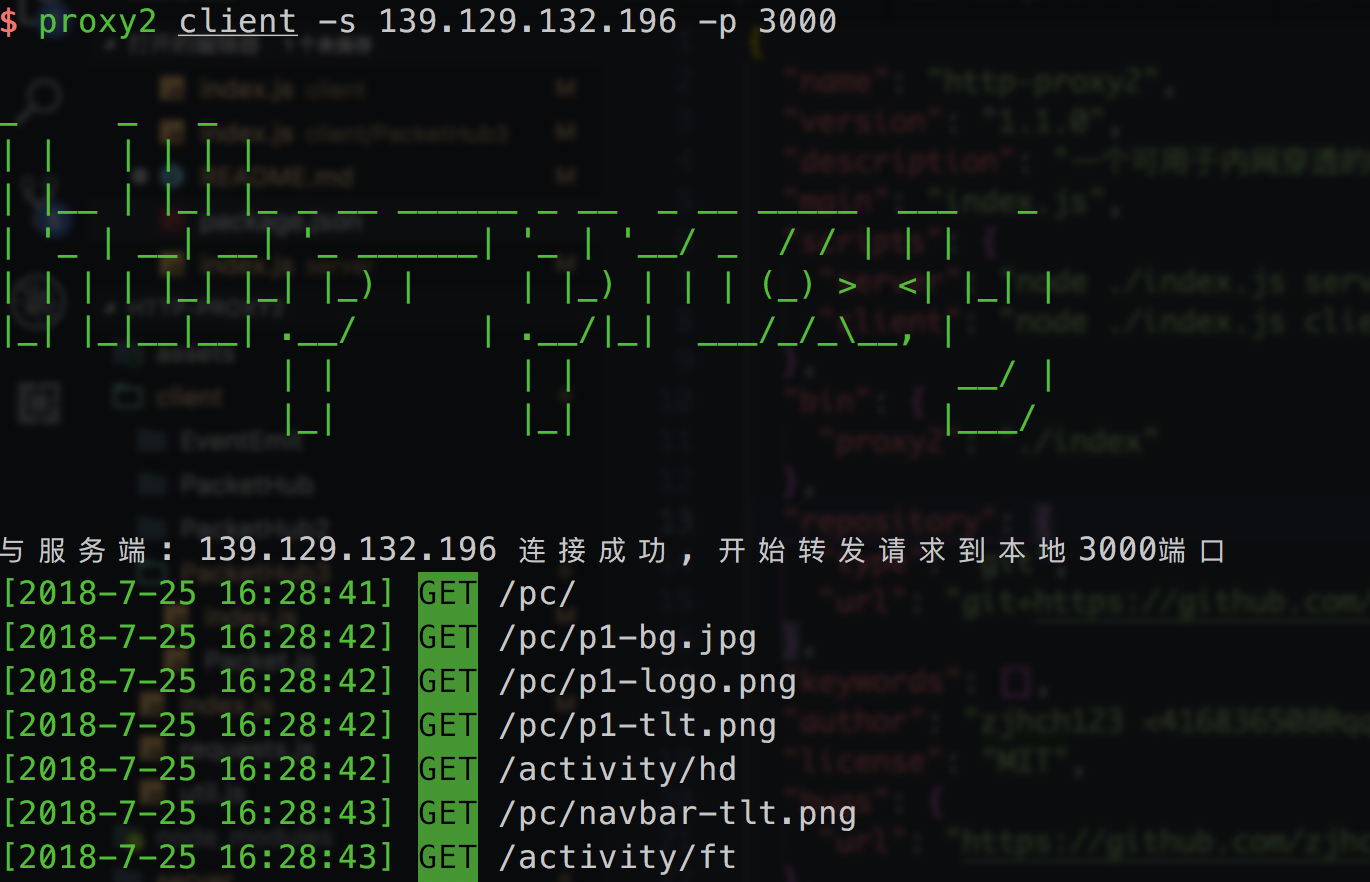
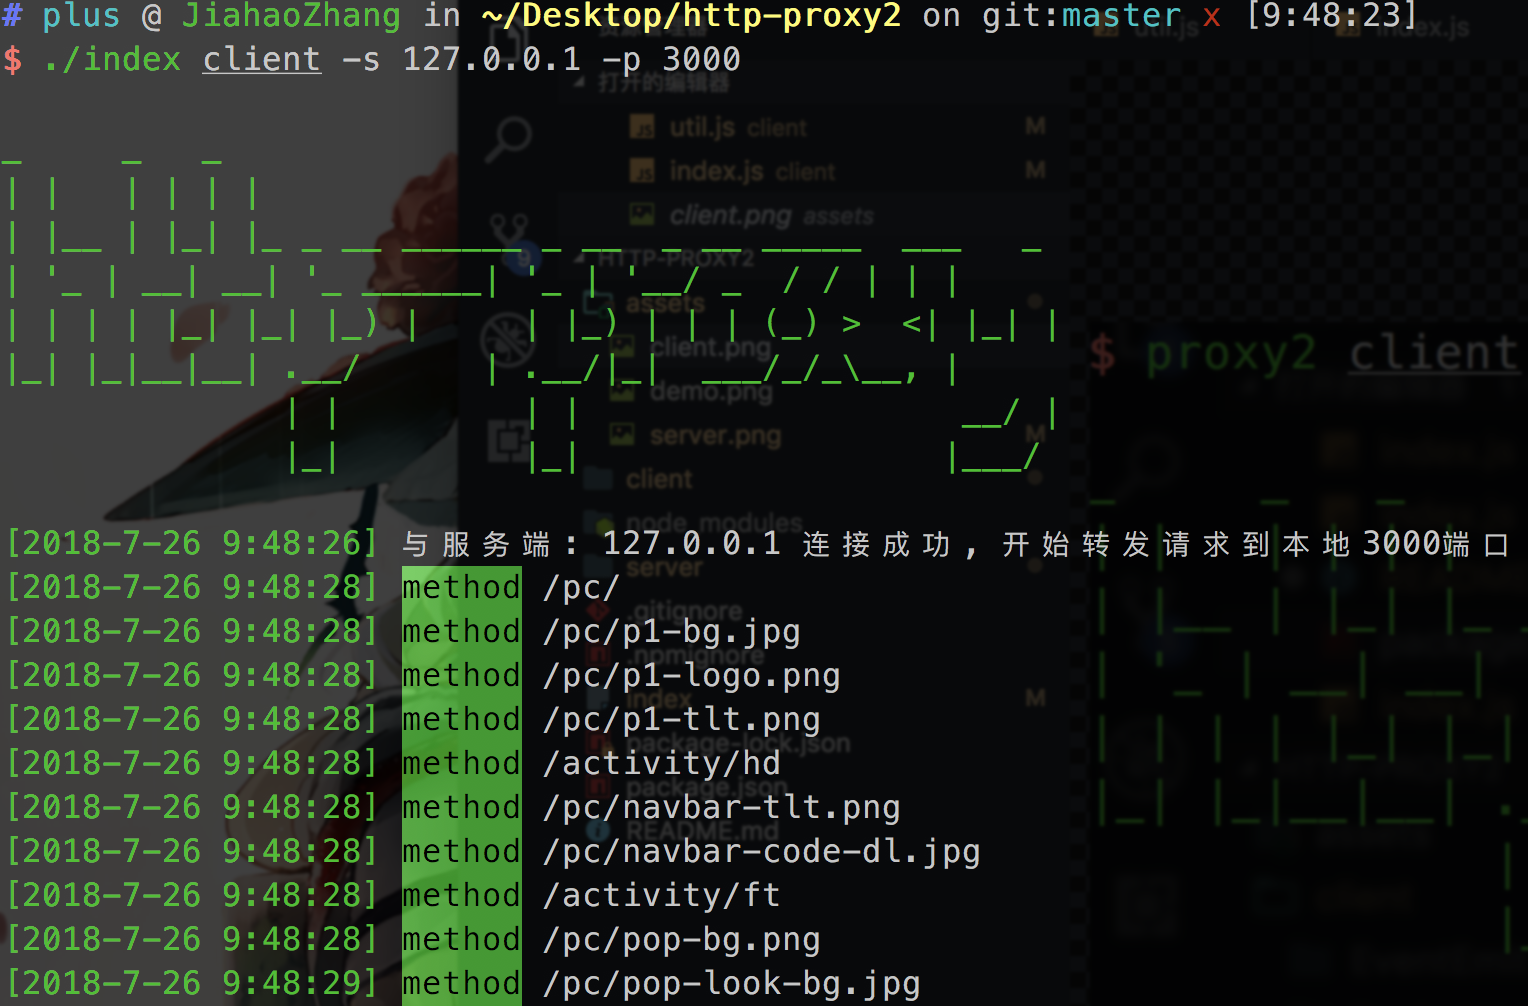
feat: 优化控制台输出方案

diff --git a/server/index.js b/server/index.js
@@ -1,8 +1,11 @@
 const net = require('net')
+const http = require('http')
+const colors = require('./colors')
 const Emit = require('./EventEmit')
 const PacketHub = require('./PacketHub3')
 const util = require('./util')
-const http = require('http')
+
+const log = util.log
 
 const startServer = (port = 8081) => {
   const packetHub = new PacketHub()
@@ -13,7 +16,7 @@ const startServer = (port = 8081) => {
 
   const createConnectionToTunnel = () => {
     tunnel = net.createServer(socket => {
-      console.log('客户机连接成功！')
+      log(`客户机连接成功!`)
       packetHub.start()
       tunnelSocket = socket
       socket.on('data', (data) => { // 接收到内网主机发来的消息, 内网主机发来的消息是已经包裹完毕的
@@ -24,9 +27,9 @@ const startServer = (port = 8081) => {
         tunnel = null
         tunnelSocket = null
         packetHub.clear()
-        console.log('客户机断开，3秒后重新开始监听客户机连接')
+        log('客户机断开，3秒后重新开始监听客户机连接')
         setTimeout(() => {
-          console.log('重新开始监听')
+          log('重新开始监听')
           createConnectionToTunnel()
         }, 3000)
       })
@@ -70,10 +73,9 @@ const startServer = (port = 8081) => {
     }
   })
 
-  console.log(`开始监听${port}端口`)
+  log(`开始监听${port}端口`)
   server.setMaxListeners(5)
   server.listen(port)
-
 
   Emit.on('recvReq', ({
     key,
@@ -93,7 +95,7 @@ const startServer = (port = 8081) => {
     const buf = Buffer.from(header)
     const packet = util.createWrappedBuf(key, buf)
     if (tunnelSocket) {
-      console.log(`[${util.getNowDate()}] Proxy: ${method} - ${path}`)
+      log(`${colors.bgRed(colors.white('Proxy'))} ${colors.bgGreen(colors.black('method'))} ${path}`)
       tunnelSocket.write(packet)
     } else {
       serverResponses[key].end('There is no client, please connect client to proxy request!')
@@ -113,7 +115,7 @@ const startServer = (port = 8081) => {
         serverResponses[key].end(body)
       } catch (e) {
         serverResponses[key].end()
-        console.log(e)
+        log(e)
       }
       delete serverResponses[key]
     }

diff --git a/client/index.js b/client/index.js
@@ -3,6 +3,9 @@ const PacketHub = require('./PacketHub3')
 const util = require('./util')
 const requests = require('./requests')
 const Emit = require('./EventEmit')
+const colors = require('./colors')
+
+const log = util.log
 
 const startClient = (publicIP = '127.0.0.1', proxyToPort = 80) => {
   const packetHub = new PacketHub()
@@ -14,7 +17,7 @@ const startClient = (publicIP = '127.0.0.1', proxyToPort = 80) => {
 
   client.connect(PORT, HOST, () => {
     packetHub.start()
-    console.log(`与服务端: ${publicIP} 连接成功, 开始转发请求到本地${proxyToPort}端口`)
+    log(`与服务端: ${publicIP} 连接成功, 开始转发请求到本地${proxyToPort}端口`)
   })
 
   client.on('data', (data) => {
@@ -22,7 +25,7 @@ const startClient = (publicIP = '127.0.0.1', proxyToPort = 80) => {
   })
 
   client.on('close', () => {
-    console.log('与服务端的连接被中断!')
+    log('与服务端的连接被中断!')
     packetHub.clear()
   })
 
@@ -33,7 +36,7 @@ const startClient = (publicIP = '127.0.0.1', proxyToPort = 80) => {
       headers,
       body
     } = util.splitRequest(fullPacket)
-    console.log(`\x1b[32m[${util.getNowDate()}]\x1b[0m \x1b[42m\x1b[30m${method}\x1b[0m ${path}`)
+    log(`${colors.bgGreen(colors.black('method'))} ${path}`)
     const result = await requests({
       host: '127.0.0.1',
       port: proxyToPort,

diff --git a/client/colors.js b/client/colors.js
@@ -1,0 +1,34 @@
+const Reset = "\x1b[0m",
+      Bright = "\x1b[1m",
+      Dim = "\x1b[2m",
+      Underscore = "\x1b[4m",
+      Blink = "\x1b[5m",
+      Reverse = "\x1b[7m",
+      Hidden = "\x1b[8m",
+
+      FgBlack = "\x1b[30m",
+      FgRed = "\x1b[31m",
+      FgGreen = "\x1b[32m",
+      FgYellow = "\x1b[33m",
+      FgBlue = "\x1b[34m",
+      FgMagenta = "\x1b[35m",
+      FgCyan = "\x1b[36m",
+      FgWhite = "\x1b[37m",
+
+      BgBlack = "\x1b[40m",
+      BgRed = "\x1b[41m",
+      BgGreen = "\x1b[42m",
+      BgYellow = "\x1b[43m",
+      BgBlue = "\x1b[44m",
+      BgMagenta = "\x1b[45m",
+      BgCyan = "\x1b[46m",
+      BgWhite = "\x1b[47m"
+
+module.exports = {
+  red: (msg) => `${FgRed}${msg}${Reset}`,
+  green: (msg) => `${FgGreen}${msg}${Reset}`,
+  bgGreen: (msg) => `${BgGreen}${msg}${Reset}`,
+  bgRed: (msg) => `${BgRed}${msg}${Reset}`,
+  black: (msg) => `${FgBlack}${msg}${Reset}`,
+  white: (msg) => `${FgWhite}${msg}${Reset}`,
+}

diff --git a/server/colors.js b/server/colors.js
@@ -1,0 +1,34 @@
+const Reset = "\x1b[0m",
+      Bright = "\x1b[1m",
+      Dim = "\x1b[2m",
+      Underscore = "\x1b[4m",
+      Blink = "\x1b[5m",
+      Reverse = "\x1b[7m",
+      Hidden = "\x1b[8m",
+
+      FgBlack = "\x1b[30m",
+      FgRed = "\x1b[31m",
+      FgGreen = "\x1b[32m",
+      FgYellow = "\x1b[33m",
+      FgBlue = "\x1b[34m",
+      FgMagenta = "\x1b[35m",
+      FgCyan = "\x1b[36m",
+      FgWhite = "\x1b[37m",
+
+      BgBlack = "\x1b[40m",
+      BgRed = "\x1b[41m",
+      BgGreen = "\x1b[42m",
+      BgYellow = "\x1b[43m",
+      BgBlue = "\x1b[44m",
+      BgMagenta = "\x1b[45m",
+      BgCyan = "\x1b[46m",
+      BgWhite = "\x1b[47m"
+
+module.exports = {
+  red: (msg) => `${FgRed}${msg}${Reset}`,
+  green: (msg) => `${FgGreen}${msg}${Reset}`,
+  bgGreen: (msg) => `${BgGreen}${msg}${Reset}`,
+  bgRed: (msg) => `${BgRed}${msg}${Reset}`,
+  black: (msg) => `${FgBlack}${msg}${Reset}`,
+  white: (msg) => `${FgWhite}${msg}${Reset}`,
+}

diff --git a/client/util.js b/client/util.js
@@ -1,3 +1,5 @@
+const colors = require('./colors')
+
 const util = {
   createWrappedBuf: (key, buf) => {
     const length = buf.length
@@ -7,12 +9,14 @@ const util = {
     return Buffer.concat([_buf, buf], 16 + length)
   },
   generateKey: () => {
-    return util.randomNum(1000000, 10000000)
+    return util.randomNum(1e6, 1e7)
   },
   objToStr: (obj) => {
     let retValue = []
     for (let i in obj) {
-      retValue.push(`${i}: ${obj[i]}`)
+      if (obj.hasOwnProperty(i)) {
+        retValue.push(`${i}: ${obj[i]}`)
+      }
     }
     return retValue.join('\n')
   },
@@ -84,6 +88,9 @@ const util = {
     const minute = now.getMinutes()
     const second = now.getSeconds()
     return `${year}-${month}-${date} ${hour}:${minute}:${second}`
+  },
+  log: (msg) => {
+    console.log(`${colors.green(`[${util.getNowDate()}]`)} ${msg}`)
   }
 }
 

diff --git a/server/util.js b/server/util.js
@@ -1,3 +1,5 @@
+const colors = require('./colors')
+
 const util = {
   createWrappedBuf: (key, buf) => {
     const length = buf.length
@@ -7,12 +9,14 @@ const util = {
     return Buffer.concat([_buf, buf], 16 + length)
   },
   generateKey: () => {
-    return util.randomNum(1000000, 10000000)
+    return util.randomNum(1e6, 1e7)
   },
   objToStr: (obj) => {
     let retValue = []
     for (let i in obj) {
-      retValue.push(`${i}: ${obj[i]}`)
+      if (obj.hasOwnProperty(i)) {
+        retValue.push(`${i}: ${obj[i]}`)
+      }
     }
     return retValue.join('\n')
   },
@@ -75,6 +79,9 @@ const util = {
     const minute = now.getMinutes()
     const second = now.getSeconds()
     return `${year}-${month}-${date} ${hour}:${minute}:${second}`
+  },
+  log: (msg) => {
+    console.log(`${colors.green(`[${util.getNowDate()}]`)} ${msg}`)
   }
 }
 

diff --git a/client/requests.js b/client/requests.js
@@ -43,9 +43,6 @@ const sendRequest = ({
       const result = util.generateResponse({
         code: 500,
         message: 'Server Error',
-        headers: {
-          Server: 'proxy'
-        },
         body: Buffer.from(`Client can't send request to Proxy Server`)
       })
       resolve(result)
